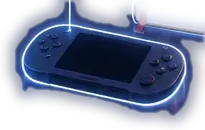
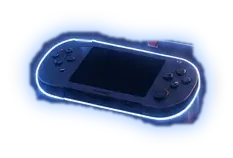
窥探之眼：重抠茶几物件（去连线、去背景）；电视问句打字 + 故障特效；桌面图标抬手即开
- go_* / gc_*：先把物件上方的连线按位置补掉再抠；只留最大连通块并填洞；外圈光改成自己加的蓝光，不再带出桌面、帘子
- 电视上「在那个世界里，这段剧情是一部……」字放大，一个字一个字打出来，带闪的方块光标、发光、偶尔红蓝错位抖一下、扫描亮条
- desk：点应用图标在 pointerup 时直接打开（移动 <12px、<550ms、没在拖/编辑），不再只靠 click；随后的 click 去重

Claude-Session: https://claude.ai/code/session_01TSyEwZEwvoN7y1zL8fqiLP

diff --git a/apps/eye/eye.js b/apps/eye/eye.js
@@ -8,7 +8,7 @@
 // 内容都是样例；生成之后接
 import { S, D, $, $$, page, reg, toast, saveD, esc, openApp } from '../../core.js';
 
-const CSS = new URL('./eye.css?v=8', import.meta.url).href;
+const CSS = new URL('./eye.css?v=9', import.meta.url).href;
 const css = () => new Promise(r => { const old = document.querySelector('link[data-eye]'); if (old) return old.sheet ? r() : old.addEventListener('load', () => r(), { once: true }); const l = document.createElement('link'); l.rel = 'stylesheet'; l.dataset.eye = 1; l.href = CSS; l.onload = l.onerror = () => r(); document.head.append(l); setTimeout(r, 1500); });
 const IMG = f => new URL(`../../assets/eye/${f}.webp`, import.meta.url).href;
 const PXF = new URL('../../assets/fonts/px-eye.woff', import.meta.url).href;
@@ -30,9 +30,9 @@ const FM = {
   game: { ep: '章', unit: '第 4 章 · 雨夜', where: '游戏库 · 已发售', plat: '游戏库', bs: '开发者日志', who: '制作组', tv: 'game' },
 };
 // 茶几上五样东西 / 整列（面板 + 线 + 图标 + 东西）都是从 guide 图里按发光的轮廓抠出来的透明图：go_* / gc_*，下面是它们在图上的范围
-const GOBJ = { manga: [38.57, 55.93, 55.66, 65.14], game: [50.29, 60.71, 70.31, 69.58], novel: [61.04, 54.91, 77.15, 64.8], drama: [73.24, 59.69, 84.96, 70.6], anime: [84.96, 54.57, 96.19, 63.1] };
+const GOBJ = { manga: [37.21, 54.98, 57.03, 66.1], game: [48.93, 59.75, 71.68, 70.53], novel: [59.67, 53.96, 78.52, 65.76], drama: [71.88, 58.73, 86.33, 71.56], anime: [83.59, 53.62, 97.56, 64.05] };
 // 选作品那张图上，每一列（面板 + 小图标 + 茶几上对应的东西）的范围，百分比：左 上 右 下
-const GCOL = { manga: [36.13, 40.25, 54.69, 64.8], game: [49.32, 40.25, 68.85, 68.89], novel: [61.52, 40.25, 76.66, 64.46], drama: [73.73, 40.25, 87.4, 70.26], anime: [85.45, 40.25, 99.61, 63.1] };
+const GCOL = { manga: [34.77, 39.29, 56.05, 65.76], game: [47.95, 39.29, 70.21, 69.85], novel: [60.16, 39.29, 78.03, 65.42], drama: [72.36, 39.29, 88.77, 71.21], anime: [84.08, 39.29, 100.98, 64.05] };
 const GHIT = { manga: [36, 40, 50, 68], game: [50, 40, 64, 68], novel: [64, 40, 75.5, 68], drama: [75.5, 40, 86.5, 70], anime: [86.5, 40, 99.5, 68] };
 const pct = ([l, t, r, b]) => `left:${l}%;top:${t}%;width:${r - l}%;height:${b - t}%`;
 
@@ -158,11 +158,17 @@ function intro(el) {
 }
 
 /* ---------- 引导：第一次进来先选作品 ---------- */
-function guide(el, on) { const g = $('.eye-guide', el); if (!g) return; g.classList.toggle('in', on); $('.eye-stage', el).classList.toggle('guiding', on); }
+function guide(el, on) { const g = $('.eye-guide', el); if (!g) return; g.classList.toggle('in', on); $('.eye-stage', el).classList.toggle('guiding', on); if (on) typeQ($('.gq', g)); }
+// 电视上的问句：一个字一个字打出来，末尾一个闪的方块
+function typeQ(q) {
+  if (!q || q._typed) return; q._typed = 1; const t = q.dataset.t; let n = 0;
+  const tick = () => { n++; const s = t.slice(0, n); q.innerHTML = s.split('|').map(esc).join('<br>') + '<i class="gcur"></i>'; if (n < t.length) setTimeout(tick, /[，…|]/.test(t[n - 1]) ? 240 : 90); };
+  setTimeout(tick, 350);
+}
 function guideHtml() {
   const g = IMG('guide');
   return `<div class="eye-guide ${ST().form ? '' : 'in'}"><img class="bleed" src="${g}" alt=""><div class="gfit"><img class="gbase" src="${g}" draggable="false" alt="">
-<div class="gtv"><p class="gq">在那个世界里，<br>这段剧情是一部……</p></div>
+<div class="gtv"><p class="gq" data-t="在那个世界里，|这段剧情是一部……"></p></div>
 ${FORMS.map(([k], i) => `<img class="gobj" data-x="${k}" src="${IMG('go_' + k)}" style="${pct(GOBJ[k])};--i:${i}" alt=""><img class="gcol" data-x="${k}" src="${IMG('gc_' + k)}" style="${pct(GCOL[k])}" alt="">`).join('')}
 ${FORMS.map(([k, n]) => `<b class="gh" data-a="gpick" data-x="${k}" style="${pct(GHIT[k])}"></b><span class="gl" data-x="${k}" style="left:${(GCOL[k][0] + GCOL[k][2]) / 2}%">${n}</span>`).join('')}</div>
 <b class="gok" data-a="gok">确 认</b></div>`;

diff --git a/desk.js b/desk.js
@@ -156,6 +156,19 @@ function drag(e, id, longPress = false) {
   place(e);hold();gh.style.scale='1.08';gh.animate([{scale:'1'},{scale:'1.08'}],{duration:160,easing:'ease-out'});R.setPointerCapture?.(pointer);
   R.addEventListener('pointermove',mv);R.addEventListener('pointerup',finish);R.addEventListener('pointercancel',finish);R.addEventListener('lostpointercapture',finish);
 }
+// 点应用图标：抬手就开，不等 click——手机上按下到抬起之间手指轻微挪动、桌面局部重画，都可能让 click 不触发，看着就是「点了没反应」
+let tapOpen = 0;
+function deskTap(e) {
+  if (edit || dragging || e.button > 0 || e.isPrimary === false) return;
+  const el = e.target.closest('.it[data-it]'); if (!el) return;
+  const id = e.pointerId, x0 = e.clientX, y0 = e.clientY, t0 = Date.now(), key = el.dataset.it;
+  const off = () => { removeEventListener('pointerup', up, true); removeEventListener('pointercancel', off, true); };
+  const up = ev => { if (ev.pointerId !== id) return; off();
+    if (edit || dragging || Math.hypot(ev.clientX - x0, ev.clientY - y0) > 12 || Date.now() - t0 > 550 || moved > t0) return;
+    const [l, i] = find(key), it = l[i]; if (!it || it.t != 'app') return;
+    tapOpen = Date.now(); openApp(it.app); };
+  addEventListener('pointerup', up, true); addEventListener('pointercancel', off, true);
+}
 // 平时：手指左右滑翻页（一次一页，跟手）；竖着滑、点、长按都照常
 function deskSwipe(e) {
   if (edit || dragging || e.button > 0 || e.isPrimary === false || e.target.closest('.phone-gesture-control,input,textarea,select,.dots,.dock')) return;
@@ -253,7 +266,7 @@ Object.assign(G, {
   dlp: (_, t, e) => { if (edit) return; edit = 1; ui.desk.classList.add('edit'); t.dataset.it && drag(e, t.dataset.it, true); },
   edDone: () => { edit = 0; ui.desk.classList.remove('edit'); clean(); },
   go: i => goPage(+i),
-  tap: (_, t) => { if (dragging || Date.now() - moved < 350) return; const [l, i] = find(t.dataset.it), it = l[i]; if (!it) return; if (it.t == 'folder' && !edit) return folder(it); if (edit) return it.t == 'w' && editW(it); it.t == 'app' && openApp(it.app); }, // 组件仅在长按进入编辑模式后可修改；普通点击不打开上传菜单。
+  tap: (_, t) => { if (dragging || Date.now() - moved < 350 || Date.now() - tapOpen < 600) return; const [l, i] = find(t.dataset.it), it = l[i]; if (!it) return; if (it.t == 'folder' && !edit) return folder(it); if (edit) return it.t == 'w' && editW(it); it.t == 'app' && openApp(it.app); }, // 组件仅在长按进入编辑模式后可修改；普通点击不打开上传菜单。
   del: id => { const [l, i] = find(id), it = l[i]; dropMedia(it); it.t == 'folder' && S.desk.pages[cur].push(...it.apps.map(A)); l.splice(i, 1); clean(); },
   wAdd: () => wAddSheet(),
   edTheme: () => APPS.theme?.open(),
@@ -271,7 +284,7 @@ export function initDesk() {
   if (!S.deskEye) { S.deskEye = 1; [...S.desk.pages.flat(), ...S.desk.dock].some(x => x.app == 'eye' || x.apps?.includes('eye')) || placeItem(S.desk.pages, A('eye'), 0); } // 新增的窥探之眼
   if (!S.deskMusic) { S.deskMusic = 1; const has = [...S.desk.pages.flat(), ...S.desk.dock].some(x => x.app == 'music' || x.apps?.includes('music')); has || (S.desk.dock.length < 4 ? S.desk.dock.splice(1, 0, A('music')) : placeItem(S.desk.pages, A('music'), 0)); } // 新增的音乐 App：老桌面也放一个
   S.desk.pages = fitPages(S.desk.pages); save(); renderDesk();
-  ui.desk.addEventListener('pointerdown', editGesture); ui.desk.addEventListener('pointerdown', deskSwipe);
+  ui.desk.addEventListener('pointerdown', editGesture); ui.desk.addEventListener('pointerdown', deskSwipe); ui.desk.addEventListener('pointerdown', deskTap);
 }
 
 

diff --git a/apps/eye/eye.css b/apps/eye/eye.css
@@ -109,8 +109,17 @@
 /* 电视：关着的屏，上面一行像素字问你 */
 .gtv { position: absolute; left: 33.6%; top: 14.9%; width: 44.6%; height: 17.6%; overflow: hidden; background: #04060c; display: grid; place-items: center; box-shadow: inset 0 0 20px rgba(0, 0, 0, .9); }
 .gtv::after { content: ''; position: absolute; inset: 0; background: repeating-linear-gradient(0deg, rgba(0, 0, 0, .25) 0 1px, transparent 1px 3px); pointer-events: none; }
-.gq { margin: 0; font-family: "xp-px", sans-serif; font-size: 12px; line-height: 20px; letter-spacing: 1px; text-align: center; color: #bfe2ff; text-shadow: 0 0 6px rgba(120, 200, 255, .8); -webkit-font-smoothing: none; animation: gq 2.4s steps(2) infinite; transition: opacity .3s; }
-@keyframes gq { 50% { opacity: .75 } }
+.gq { position: relative; margin: 0; padding: 0 6px; font-family: "xp-px", sans-serif; font-size: 16px; line-height: 26px; letter-spacing: 1px; white-space: nowrap; text-align: left; color: #d6f0ff; -webkit-font-smoothing: none; transition: opacity .3s;
+  text-shadow: 0 0 6px rgba(90, 200, 255, .9), 0 0 16px rgba(60, 160, 255, .55); animation: gq-glitch 4.2s steps(1) infinite; }
+/* 偶尔「咔」一下：红蓝错位 + 横向抖 */
+@keyframes gq-glitch { 0%, 86%, 100% { transform: none; text-shadow: 0 0 6px rgba(90, 200, 255, .9), 0 0 16px rgba(60, 160, 255, .55) }
+  88% { transform: translateX(-2px) skewX(-6deg); text-shadow: 2px 0 #ff2a5a, -2px 0 #2af0ff, 0 0 10px rgba(90, 200, 255, .9) }
+  90% { transform: translateX(2px); text-shadow: -3px 0 #ff2a5a, 3px 0 #2af0ff }
+  92% { transform: none; opacity: .6 } 94% { opacity: 1 } }
+.gcur { display: inline-block; width: 9px; height: 15px; margin-left: 3px; vertical-align: -2px; background: #7fd8ff; box-shadow: 0 0 8px #5ad0ff; animation: gcur .8s steps(1) infinite; }
+@keyframes gcur { 50% { opacity: 0 } }
+/* 屏幕上一道慢慢往下刷的亮条 */
+.gtv::before { content: ''; position: absolute; left: 0; right: 0; height: 30%; top: -30%; background: linear-gradient(180deg, transparent, rgba(120, 200, 255, .08), transparent); animation: crt 3.6s linear infinite; pointer-events: none; z-index: 1; }
 .gtv .tv-img { position: absolute; inset: 0; width: 100%; height: 100%; object-fit: cover; }
 .gtv.lit .gq { opacity: 0; }
 .gtv.lit { animation: tv-on .9s ease-out; }
